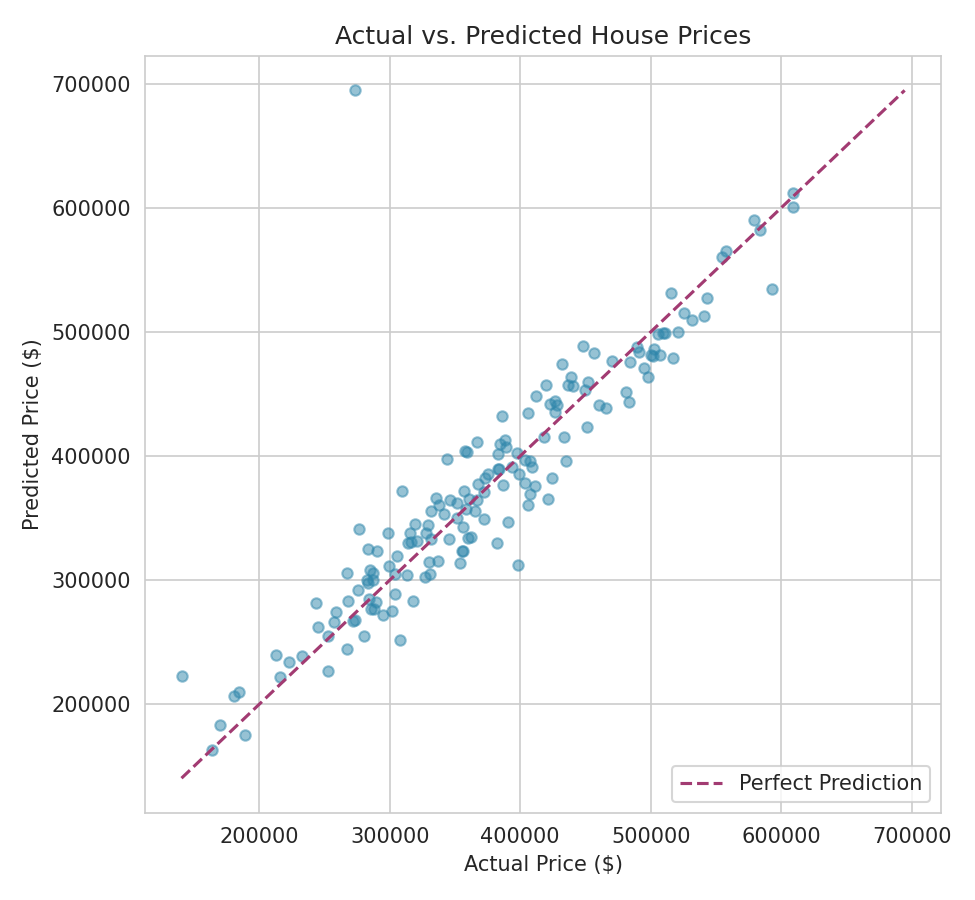
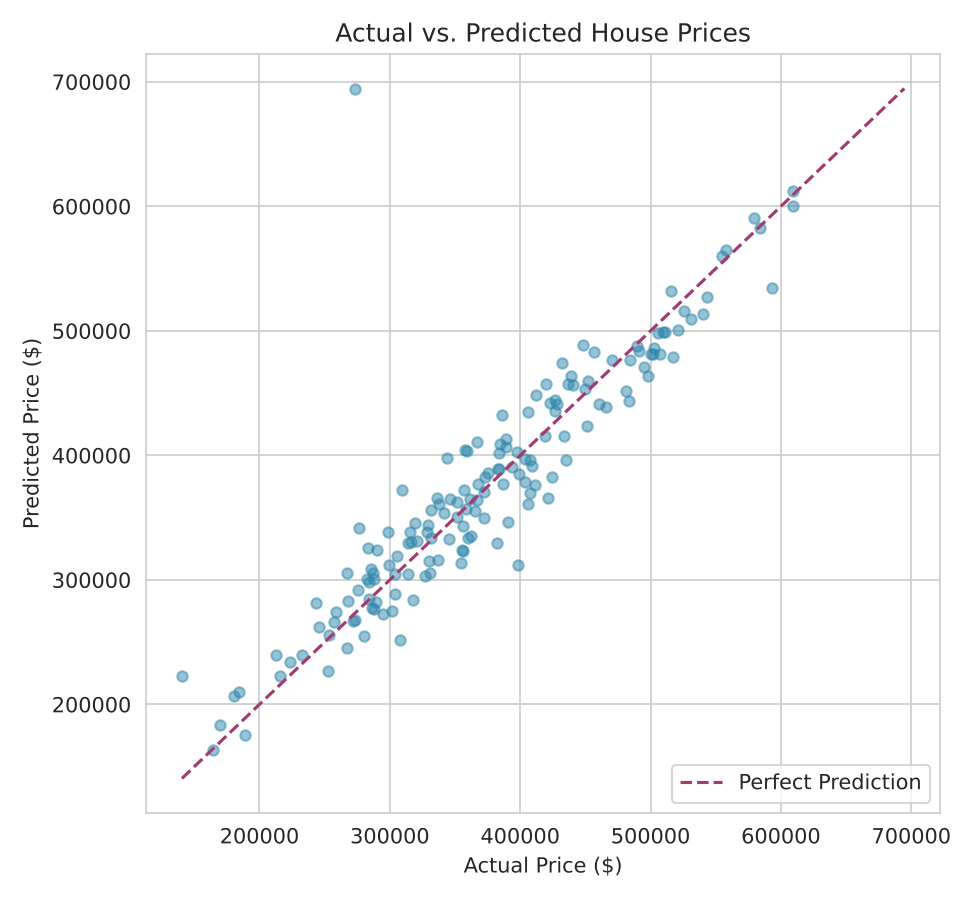
Fit scaler on training split only; clean up README

diff --git a/src/preprocessing.py b/src/preprocessing.py
@@ -38,19 +38,21 @@ def engineer_features(df: pd.DataFrame) -> pd.DataFrame:
     """Create derived features that improve linear model fit."""
     df = df.copy()
     df["HouseAge"] = 2026 - df["YearBuilt"]
-    df["PricePerSqft_proxy"] = df["LotSize"] / df["SquareFootage"]  # lot-to-living ratio
+    df["LotToLivingRatio"] = df["LotSize"] / df["SquareFootage"]
     df["TotalRooms"] = df["Bedrooms"] + df["Bathrooms"]
     return df
 
-ENGINEERED_FEATURES = RAW_FEATURES + ["HouseAge", "PricePerSqft_proxy", "TotalRooms"]
+ENGINEERED_FEATURES = RAW_FEATURES + ["HouseAge", "LotToLivingRatio", "TotalRooms"]
 ENGINEERED_FEATURES.remove("YearBuilt")  # superseded by HouseAge
 
 
-def scale_features(df: pd.DataFrame, features=ENGINEERED_FEATURES):
+def scale_features(X_train: pd.DataFrame, X_test: pd.DataFrame):
+    """Fit the scaler on the training split only, then apply it to both,
+    so test-set statistics don't leak into training."""
     scaler = StandardScaler()
-    scaled = scaler.fit_transform(df[features])
-    scaled_df = pd.DataFrame(scaled, columns=features, index=df.index)
-    return scaled_df, scaler
+    train = pd.DataFrame(scaler.fit_transform(X_train), columns=X_train.columns, index=X_train.index)
+    test = pd.DataFrame(scaler.transform(X_test), columns=X_test.columns, index=X_test.index)
+    return train, test, scaler
 
 
 if __name__ == "__main__":
@@ -58,6 +60,5 @@ if __name__ == "__main__":
     df = handle_missing_values(raw)
     df = remove_outliers(df)
     df = engineer_features(df)
-    scaled_df, scaler = scale_features(df)
     print(f"Raw rows: {len(raw)} -> Clean rows: {len(df)}")
-    print(scaled_df.describe())
+    print(df[ENGINEERED_FEATURES].describe())

diff --git a/src/pipeline.py b/src/pipeline.py
@@ -1,7 +1,7 @@
 """
 pipeline.py
 -----------
-End-to-end run: load -> clean -> engineer features -> scale -> split ->
+End-to-end run: load -> clean -> engineer features -> split -> scale ->
 train -> evaluate (MSE / R^2) -> visualize -> save results.
 
 Run with:  python pipeline.py   (from inside src/)
@@ -74,12 +74,11 @@ def main():
     # 2. Feature engineering
     df = engineer_features(df)
 
-    # 3. Feature scaling
-    scaled_X, scaler = scale_features(df)
-    y = df[TARGET]
+    # 3. Train/test split
+    X_train, X_test, y_train, y_test = split_data(df[ENGINEERED_FEATURES], df[TARGET])
 
-    # 4. Train/test split
-    X_train, X_test, y_train, y_test = split_data(scaled_X, y)
+    # 4. Feature scaling (fit on train only)
+    X_train, X_test, scaler = scale_features(X_train, X_test)
 
     # 5. Train
     model = train_model(X_train, y_train)

diff --git a/src/modeling.py b/src/modeling.py
@@ -2,7 +2,7 @@
 modeling.py
 ------------
 Train/test split, linear regression fitting, and evaluation using
-MSE and R^2, as called out on the resume.
+MSE and R^2.
 """
 
 import numpy as np

diff --git a/README.md b/README.md
@@ -14,9 +14,10 @@ that:
 1. Cleans missing values and removes data-entry outliers
 2. Engineers derived features that improve linear fit (house age,
    lot-to-living ratio, total rooms)
-3. Scales features so coefficients are comparable across variables of
-   very different magnitude (square footage vs. distance in km)
-4. Trains a linear regression model on a held-out train/test split
+3. Splits into train/test (80/20)
+4. Scales features (scaler fit on the training split only) so
+   coefficients are comparable across variables of very different
+   magnitude, and trains a linear regression model
 5. Evaluates performance with **MSE**, **RMSE**, and **R²**
 6. Visualizes predictions, residuals, and feature importance for
    interpretability
@@ -46,7 +47,7 @@ house-price-prediction/
 ## How to Run
 
 ```bash
-git clone https://github.com/<your-username>/house-price-prediction.git
+git clone https://github.com/niki-kandlikar/house-price-prediction.git
 cd house-price-prediction
 pip install -r requirements.txt
 
@@ -68,11 +69,12 @@ training.
 **Feature engineering** — three derived features are added on top of
 the raw fields:
 - `HouseAge` (from `YearBuilt`)
-- `PricePerSqft_proxy` — lot-to-living-space ratio
+- `LotToLivingRatio` — lot size divided by living square footage
 - `TotalRooms` — bedrooms + bathrooms combined
 
 **Feature scaling** — all features are standardized with
-`StandardScaler` before fitting, so regression coefficients are
+`StandardScaler`, fit on the training split only so test-set statistics
+don't leak into training, so regression coefficients are
 directly comparable in magnitude regardless of each feature's original
 units.
 
@@ -84,10 +86,10 @@ units.
 | RMSE | ~$42,584 |
 | MSE | ~1.81B |
 
-An R² of 0.81 means the model explains about 81% of the variance in
-house prices from the available features — solid for a linear model,
-with the remaining variance likely driven by factors not captured here
-(renovation quality, neighborhood-specific effects, market timing).
+One caveat: the data is synthetic (`generate_data.py`), so this R²
+mostly reflects how much noise the generator adds, not how well a
+linear model would do on real listings. The next step is rerunning this
+on a real dataset (e.g. Ames Housing).
 
 ## Results
 
@@ -112,15 +114,6 @@ under-predicting:
 
 ![Residuals](results/residuals.png)
 
-## Business Application
-
-This kind of model supports:
-- **Automated valuation** — a first-pass price estimate for listings
-- **Feature-driven pricing guidance** — quantifying how much an added
-  bathroom or garage space is worth, holding everything else constant
-- **Anomaly flagging** — listings priced far from model predictions
-  as candidates for manual review
-
 ## Future Improvements
 
 - Compare against regularized regression (Ridge/Lasso) to handle
@@ -131,3 +124,4 @@ This kind of model supports:
   encoding
 - Cross-validation instead of a single train/test split for more
   robust performance estimates
+- Run it on real data (Ames Housing) instead of the synthetic set
